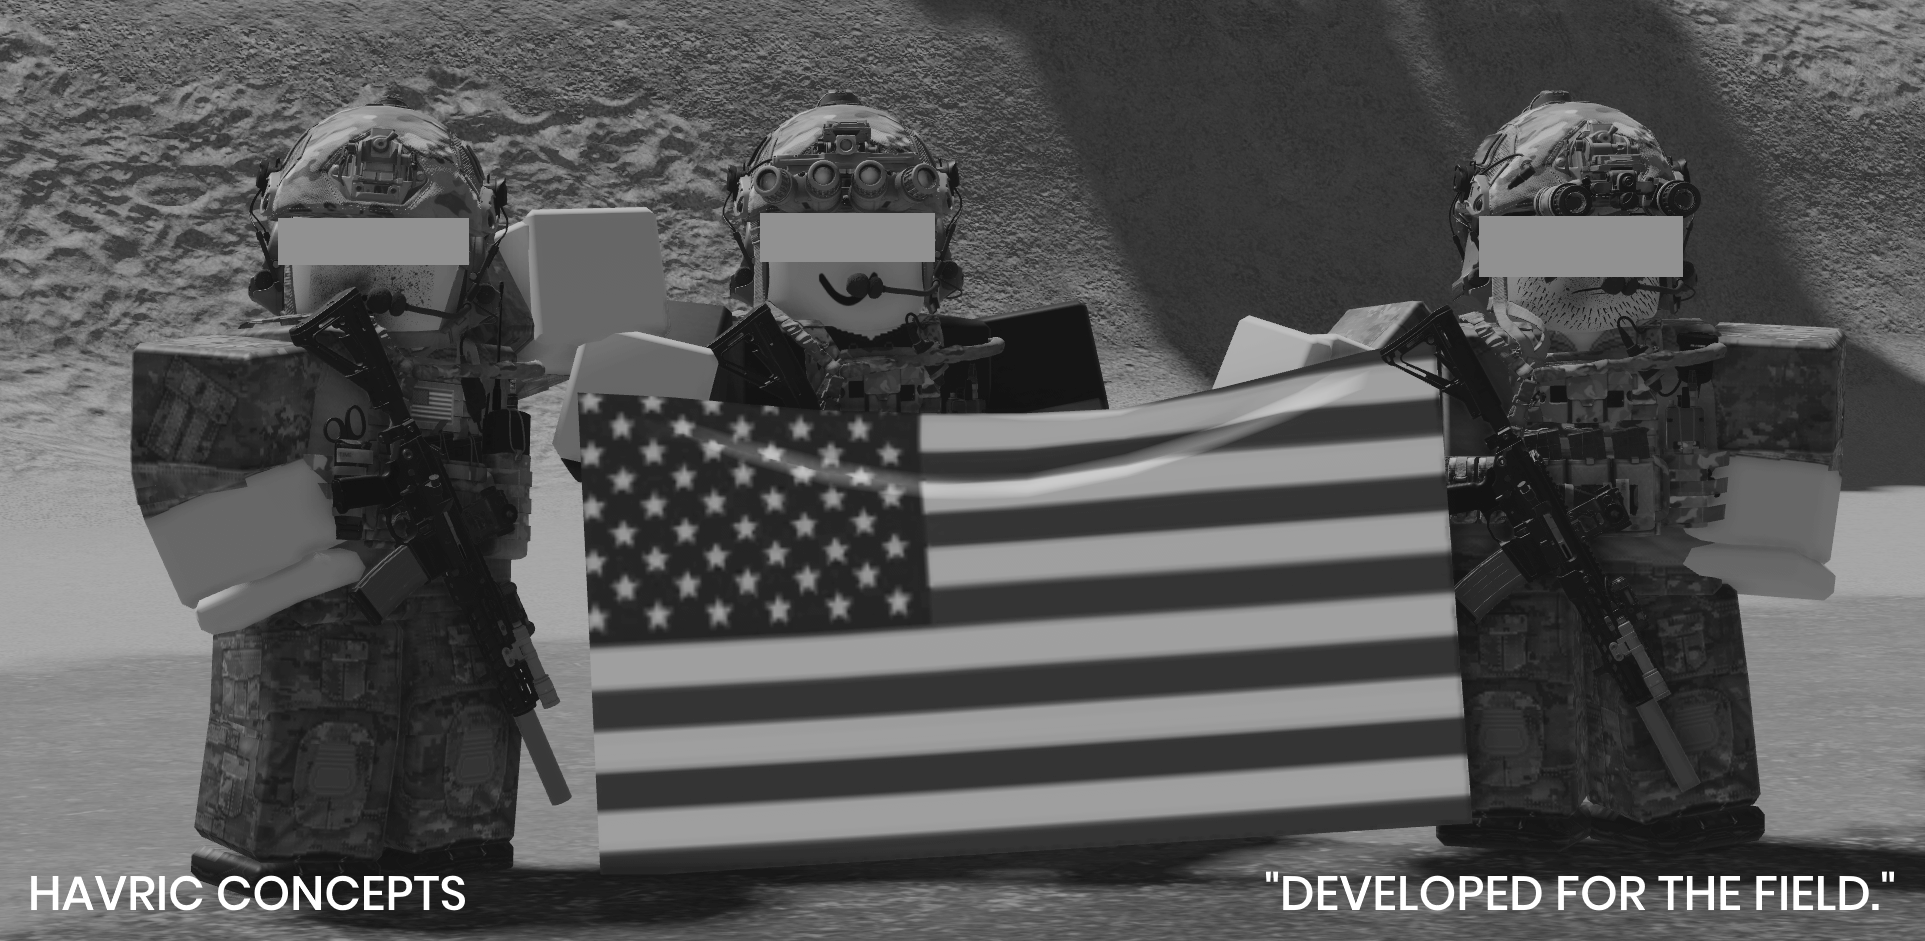
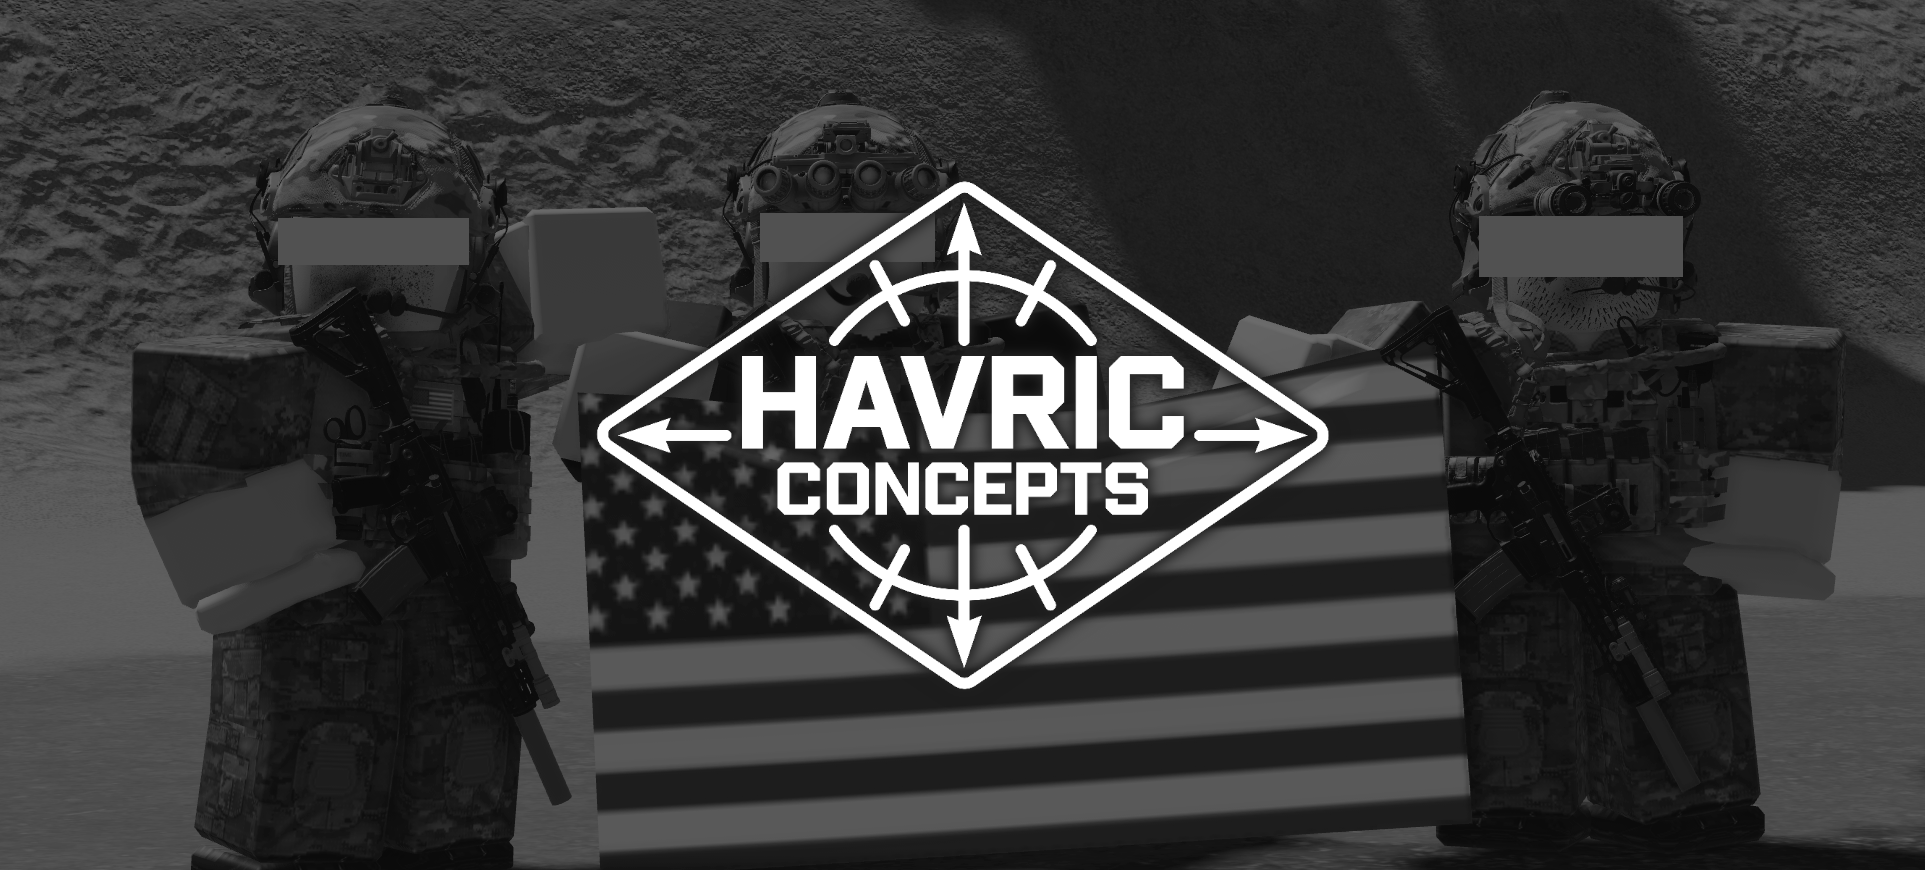
i got rehired in havric woop woop

diff --git a/index.html b/index.html
@@ -577,6 +577,45 @@
             </div>
           </div>
         </div>
+        <div class="server-card" data-job="3">
+          <div class="banner-wrap">
+            <img class="banner" src="assets/havric/banner.png" />
+          </div>
+          <div class="server-info">
+            <div>
+              <p class="server-name">Havric Concepts</p>
+              <p class="server-position">Marketing Team</p>
+            </div>
+            <div style="display: flex; gap: 8px">
+              <a
+                href="https://discord.gg/8JgXHPr4tN"
+                target="_blank"
+                class="join-btn"
+              >
+                <img
+                  src="assets/Discord_Black.svg"
+                  width="16"
+                  height="16"
+                  class="join-icon"
+                />
+                Join
+              </a>
+              <a
+                href="https://www.roblox.com/communities/79507151/Havric-Concepts#!/about/"
+                target="_blank"
+                class="join-btn"
+              >
+                <img
+                  src="assets/Roblox_Black.svg"
+                  width="16"
+                  height="16"
+                  class="join-icon"
+                />
+                Roblox Group
+              </a>
+            </div>
+          </div>
+        </div>
       </div>
       <button id="next">&#8594;</button>
     </div>
